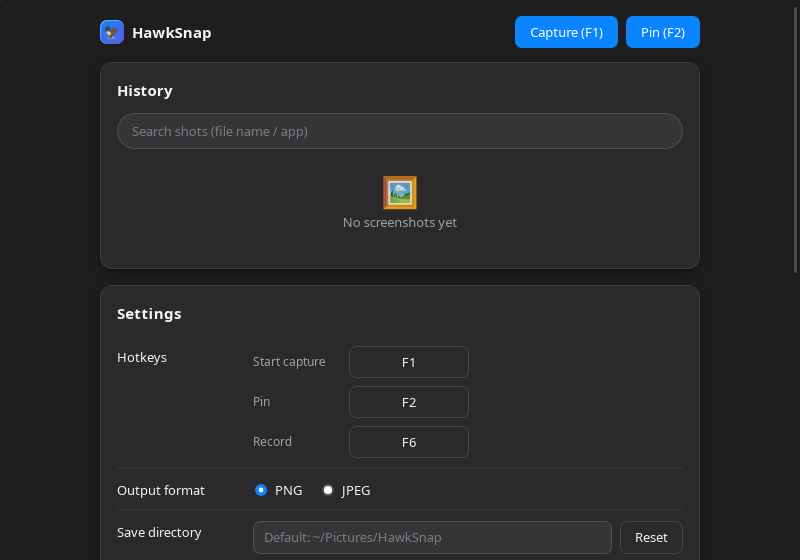
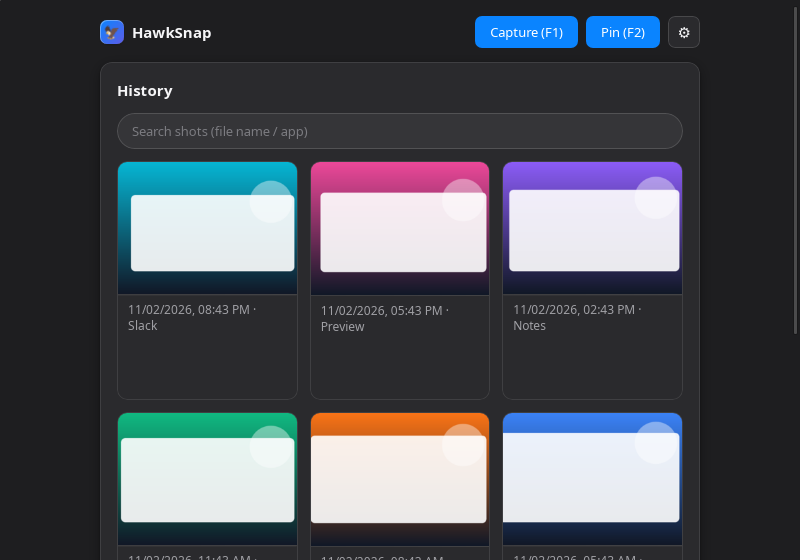
docs(readme): refresh screenshots with the new panels
Real renders captured on the Linux farm (Xvfb + WebKitGTK, release
binary with embedded assets): the slimmed history panel (settings moved
to its own window) and the new Snapzy-style settings window, light and
dark. All five README editions now carry the four-image set.

diff --git a/README.ja.md b/README.ja.md
@@ -22,8 +22,13 @@
 [English](README.md) | [简体中文](README.zh-CN.md) | [繁體中文](README.zh-Hant.md) | [文言](README.classical.md) | **日本語**
 
 <p>
-  <img src="docs/screenshots/main.png" width="49%" alt="HawkSnap メインパネル（ライト）" />
-  <img src="docs/screenshots/main-dark.png" width="49%" alt="HawkSnap メインパネル（ダーク）" />
+  <img src="docs/screenshots/main.png" width="49%" alt="HawkSnap 履歴パネル（ライト）" />
+  <img src="docs/screenshots/main-dark.png" width="49%" alt="HawkSnap 履歴パネル（ダーク）" />
+</p>
+
+<p>
+  <img src="docs/screenshots/settings.png" width="49%" alt="HawkSnap 設定ウィンドウ（ライト）" />
+  <img src="docs/screenshots/settings-dark.png" width="49%" alt="HawkSnap 設定ウィンドウ（ダーク）" />
 </p>
 
 HawkSnap は、無料・完全ローカル動作の軽量スクリーンショット＆画面録画ツールです。アカウント登録不要、クラウド非経由、テレメトリなし。

diff --git a/README.zh-CN.md b/README.zh-CN.md
@@ -22,8 +22,13 @@
 [English](README.md) | **简体中文** | [繁體中文](README.zh-Hant.md) | [文言](README.classical.md) | [日本語](README.ja.md)
 
 <p>
-  <img src="docs/screenshots/main.png" width="49%" alt="HawkSnap 主面板（浅色）" />
-  <img src="docs/screenshots/main-dark.png" width="49%" alt="HawkSnap 主面板（深色）" />
+  <img src="docs/screenshots/main.png" width="49%" alt="HawkSnap 历史面板（浅色）" />
+  <img src="docs/screenshots/main-dark.png" width="49%" alt="HawkSnap 历史面板（深色）" />
+</p>
+
+<p>
+  <img src="docs/screenshots/settings.png" width="49%" alt="HawkSnap 设置窗口（浅色）" />
+  <img src="docs/screenshots/settings-dark.png" width="49%" alt="HawkSnap 设置窗口（深色）" />
 </p>
 
 HawkSnap（中文名**猎影**）是一款免费、纯本地的轻量级截屏 + 录屏工具——无账号、无云端、无遥测。

diff --git a/README.zh-Hant.md b/README.zh-Hant.md
@@ -22,8 +22,13 @@
 [English](README.md) | [简体中文](README.zh-CN.md) | **繁體中文** | [文言](README.classical.md) | [日本語](README.ja.md)
 
 <p>
-  <img src="docs/screenshots/main.png" width="49%" alt="HawkSnap 主面板（淺色）" />
-  <img src="docs/screenshots/main-dark.png" width="49%" alt="HawkSnap 主面板（深色）" />
+  <img src="docs/screenshots/main.png" width="49%" alt="HawkSnap 歷史面板（淺色）" />
+  <img src="docs/screenshots/main-dark.png" width="49%" alt="HawkSnap 歷史面板（深色）" />
+</p>
+
+<p>
+  <img src="docs/screenshots/settings.png" width="49%" alt="HawkSnap 設定視窗（淺色）" />
+  <img src="docs/screenshots/settings-dark.png" width="49%" alt="HawkSnap 設定視窗（深色）" />
 </p>
 
 HawkSnap（中文名**獵影**）是一款免費、純本地的輕量級截屏 + 錄屏工具——無帳號、無雲端、無遙測。

diff --git a/README.md b/README.md
@@ -22,8 +22,13 @@
 **English** | [简体中文](README.zh-CN.md) | [繁體中文](README.zh-Hant.md) | [文言](README.classical.md) | [日本語](README.ja.md)
 
 <p>
-  <img src="docs/screenshots/main.png" width="49%" alt="HawkSnap main panel (light)" />
-  <img src="docs/screenshots/main-dark.png" width="49%" alt="HawkSnap main panel (dark)" />
+  <img src="docs/screenshots/main.png" width="49%" alt="HawkSnap history panel (light)" />
+  <img src="docs/screenshots/main-dark.png" width="49%" alt="HawkSnap history panel (dark)" />
+</p>
+
+<p>
+  <img src="docs/screenshots/settings.png" width="49%" alt="HawkSnap settings (light)" />
+  <img src="docs/screenshots/settings-dark.png" width="49%" alt="HawkSnap settings (dark)" />
 </p>
 
 HawkSnap is a free, fully local, lightweight screen-capture and screen-recording tool — no account, no cloud, no telemetry.

diff --git a/README.classical.md b/README.classical.md
@@ -22,8 +22,13 @@
 [English](README.md) | [简体中文](README.zh-CN.md) | [繁體中文](README.zh-Hant.md) | **文言** | [日本語](README.ja.md)
 
 <p>
-  <img src="docs/screenshots/main.png" width="49%" alt="主面板" />
-  <img src="docs/screenshots/main-dark.png" width="49%" alt="主面板，夜色" />
+  <img src="docs/screenshots/main.png" width="49%" alt="史册之窗" />
+  <img src="docs/screenshots/main-dark.png" width="49%" alt="史册之窗，夜色" />
+</p>
+
+<p>
+  <img src="docs/screenshots/settings.png" width="49%" alt="设置之窗" />
+  <img src="docs/screenshots/settings-dark.png" width="49%" alt="设置之窗，夜色" />
 </p>
 
 獵影者，截屏録屏之輕器也。不設帳籍，不寄雲端，不窺行止，諸事皆辦於君之機，纖毫不外洩。
